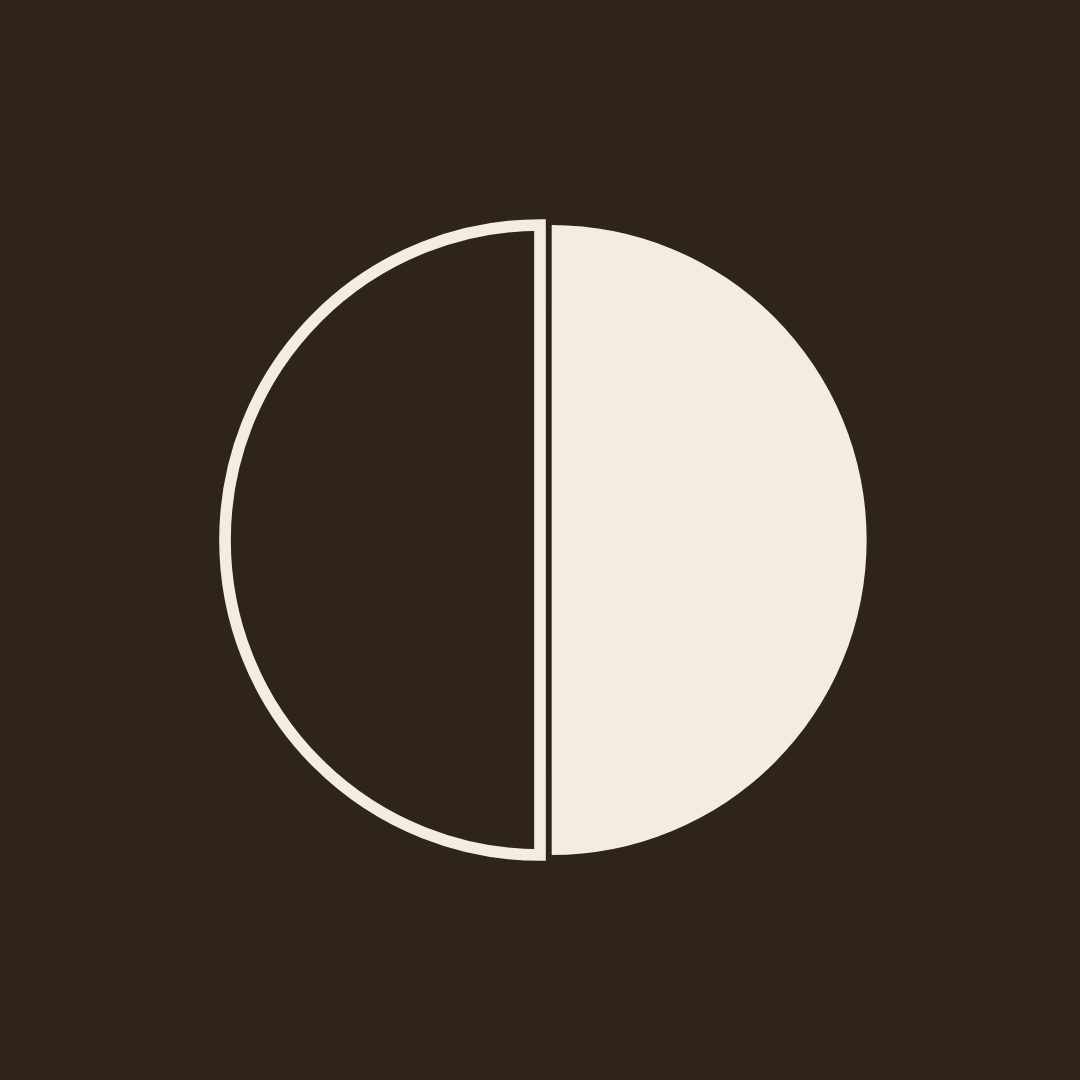
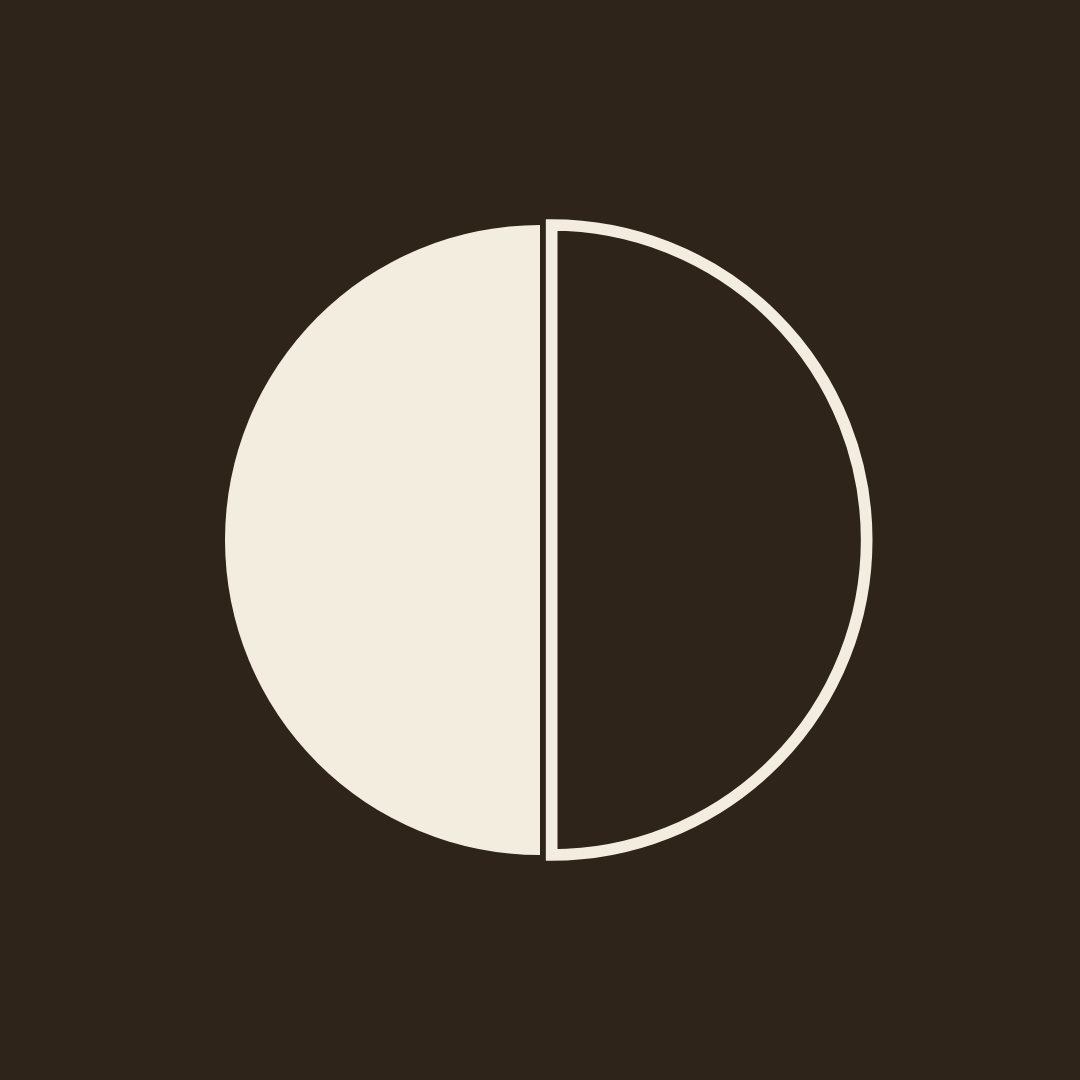
Swap monogram halves: solid first half, open second half; add kickoff-spot variant
The mark now reads as the kickoff circle: left half played and full,
right half blank — yours to write. Split-colour centre spot rejected.
Regenerated avatars and post-01 signature slide.

Changed region(s): [[0.1833, 0.1833, 0.825, 0.7944]]

diff --git a/brand-assets/centre-spot-options.html b/brand-assets/centre-spot-options.html
@@ -1,0 +1,80 @@
+<!DOCTYPE html>
+<html lang="en">
+<head>
+<meta charset="UTF-8">
+<meta name="viewport" content="width=device-width, initial-scale=1.0">
+<title>Second Half — Centre spot: three options</title>
+<link href="https://fonts.googleapis.com/css2?family=Fraunces:opsz,wght@9..144,600&family=Space+Mono&display=swap" rel="stylesheet">
+<style>
+  * { margin: 0; padding: 0; box-sizing: border-box; }
+  body { background: #F3EDDF; color: #2E2419; font-family: 'Space Mono', monospace; padding: 56px 24px 72px; }
+  h1 { font-family: 'Fraunces', Georgia, serif; font-weight: 600; font-size: 28px; text-align: center; margin-bottom: 8px; }
+  .sub { text-align: center; font-size: 12px; text-transform: uppercase; letter-spacing: 0.15em; color: #8C7B63; margin-bottom: 48px; }
+  .row { display: flex; justify-content: center; gap: 40px; flex-wrap: wrap; }
+  .variant { text-align: center; background: #FAF7EF; border: 1px solid #DDD3BF; padding: 32px 36px; max-width: 320px; }
+  .variant h2 { font-size: 13px; text-transform: uppercase; letter-spacing: 0.12em; margin-bottom: 24px; }
+  .big { margin-bottom: 24px; }
+  .smalls { display: flex; gap: 18px; justify-content: center; align-items: flex-end; margin-bottom: 20px; }
+  .smalls figure { display: flex; flex-direction: column; gap: 8px; align-items: center; }
+  figcaption { font-size: 10px; color: #8C7B63; text-transform: uppercase; }
+  .verdict { font-size: 11.5px; line-height: 1.7; color: #8C7B63; text-align: left; border-top: 1px solid #DDD3BF; padding-top: 16px; }
+  .verdict b { color: #2E2419; }
+</style>
+</head>
+<body>
+<h1>The centre spot</h1>
+<div class="sub">The kickoff-circle mark — three treatments, large and small</div>
+<div class="row">
+
+  <div class="variant">
+    <h2>A — Clean (no spot)</h2>
+    <div class="big">
+      <svg viewBox="0 0 120 120" width="200" height="200" xmlns="http://www.w3.org/2000/svg">
+        <path d="M60 6 A54 54 0 0 0 60 114 Z" fill="#35573B"/>
+        <path d="M62 6 A54 54 0 0 1 62 114 Z" fill="none" stroke="#2E2419" stroke-width="2"/>
+      </svg>
+    </div>
+    <div class="smalls">
+      <figure><svg viewBox="0 0 120 120" width="40" height="40"><path d="M60 6 A54 54 0 0 0 60 114 Z" fill="#35573B"/><path d="M62 6 A54 54 0 0 1 62 114 Z" fill="none" stroke="#2E2419" stroke-width="2"/></svg><figcaption>40px</figcaption></figure>
+      <figure><svg viewBox="0 0 120 120" width="16" height="16"><path d="M60 6 A54 54 0 0 0 60 114 Z" fill="#35573B"/><path d="M62 6 A54 54 0 0 1 62 114 Z" fill="none" stroke="#2E2419" stroke-width="4"/></svg><figcaption>16px favicon</figcaption></figure>
+    </div>
+    <p class="verdict"><b>The primary mark.</b> Survives every size. Avatar, favicon, watermark, comment threads.</p>
+  </div>
+
+  <div class="variant">
+    <h2>B — Kickoff spot</h2>
+    <div class="big">
+      <svg viewBox="0 0 120 120" width="200" height="200" xmlns="http://www.w3.org/2000/svg">
+        <path d="M60 6 A54 54 0 0 0 60 114 Z" fill="#35573B"/>
+        <path d="M62 6 A54 54 0 0 1 62 114 Z" fill="none" stroke="#2E2419" stroke-width="2"/>
+        <circle cx="61" cy="60" r="5.5" fill="#2E2419" stroke="#F3EDDF" stroke-width="2.5"/>
+      </svg>
+    </div>
+    <div class="smalls">
+      <figure><svg viewBox="0 0 120 120" width="40" height="40"><path d="M60 6 A54 54 0 0 0 60 114 Z" fill="#35573B"/><path d="M62 6 A54 54 0 0 1 62 114 Z" fill="none" stroke="#2E2419" stroke-width="2"/><circle cx="61" cy="60" r="5.5" fill="#2E2419" stroke="#F3EDDF" stroke-width="2.5"/></svg><figcaption>40px</figcaption></figure>
+      <figure><svg viewBox="0 0 120 120" width="16" height="16"><path d="M60 6 A54 54 0 0 0 60 114 Z" fill="#35573B"/><path d="M62 6 A54 54 0 0 1 62 114 Z" fill="none" stroke="#2E2419" stroke-width="4"/><circle cx="61" cy="60" r="5.5" fill="#2E2419" stroke="#F3EDDF" stroke-width="2.5"/></svg><figcaption>16px favicon</figcaption></figure>
+    </div>
+    <p class="verdict"><b>One colour, one object</b> — an espresso spot with a thin paper halo so it stays crisp over the green half. Reads as the kickoff spot, not a target. For large surfaces: packaging, hang tags, website hero.</p>
+  </div>
+
+  <div class="variant">
+    <h2>C — Split spot</h2>
+    <div class="big">
+      <svg viewBox="0 0 120 120" width="200" height="200" xmlns="http://www.w3.org/2000/svg">
+        <path d="M60 6 A54 54 0 0 0 60 114 Z" fill="#35573B"/>
+        <path d="M62 6 A54 54 0 0 1 62 114 Z" fill="none" stroke="#2E2419" stroke-width="2"/>
+        <path d="M60 54.5 A5.5 5.5 0 0 0 60 65.5 Z" fill="#F3EDDF"/>
+        <path d="M61.5 54.5 A5.5 5.5 0 0 1 61.5 65.5 Z" fill="#2E2419"/>
+      </svg>
+    </div>
+    <div class="smalls">
+      <figure><svg viewBox="0 0 120 120" width="40" height="40"><path d="M60 6 A54 54 0 0 0 60 114 Z" fill="#35573B"/><path d="M62 6 A54 54 0 0 1 62 114 Z" fill="none" stroke="#2E2419" stroke-width="2"/><path d="M60 54.5 A5.5 5.5 0 0 0 60 65.5 Z" fill="#F3EDDF"/><path d="M61.5 54.5 A5.5 5.5 0 0 1 61.5 65.5 Z" fill="#2E2419"/></svg><figcaption>40px</figcaption></figure>
+      <figure><svg viewBox="0 0 120 120" width="16" height="16"><path d="M60 6 A54 54 0 0 0 60 114 Z" fill="#35573B"/><path d="M62 6 A54 54 0 0 1 62 114 Z" fill="none" stroke="#2E2419" stroke-width="4"/><path d="M60 54.5 A5.5 5.5 0 0 0 60 65.5 Z" fill="#F3EDDF"/><path d="M61.5 54.5 A5.5 5.5 0 0 1 61.5 65.5 Z" fill="#2E2419"/></svg><figcaption>16px favicon</figcaption></figure>
+    </div>
+    <p class="verdict"><b>The one you feared — and you were right.</b> The spot changes colour per half, so the eye reads concentric rings: a target, not a pitch. Shown only for comparison.</p>
+  </div>
+
+</div>
+<p class="sub" style="margin-top:48px; margin-bottom:0">Left half solid — the first half, played · Right half open — the second half, yours to write</p>
+</body>
+</html>

diff --git a/mockups/brand-board.html b/mockups/brand-board.html
@@ -572,8 +572,8 @@
 <section class="cover">
   <div class="monogram-wrap">
     <svg viewBox="0 0 120 120" xmlns="http://www.w3.org/2000/svg" role="img" aria-label="Second Half halftime clock monogram">
-      <path d="M60 6 A54 54 0 0 0 60 114 Z" fill="none" stroke="#2E2419" stroke-width="2"/>
-      <path d="M62 6 A54 54 0 0 1 62 114 Z" fill="#35573B"/>
+      <path d="M60 6 A54 54 0 0 0 60 114 Z" fill="#35573B"/>
+      <path d="M62 6 A54 54 0 0 1 62 114 Z" fill="none" stroke="#2E2419" stroke-width="2"/>
     </svg>
   </div>
   <div class="cover-wordmark display">Second <span>Half</span></div>
@@ -615,8 +615,8 @@
     <div class="logo-tile on-night">
       <div class="tile-content">
         <svg viewBox="0 0 120 120" width="56" height="56" xmlns="http://www.w3.org/2000/svg" role="img" aria-label="Halftime clock monogram">
-          <path d="M60 6 A54 54 0 0 0 60 114 Z" fill="none" stroke="#2E2419" stroke-width="2"/>
-          <path d="M62 6 A54 54 0 0 1 62 114 Z" fill="#35573B"/>
+          <path d="M60 6 A54 54 0 0 0 60 114 Z" fill="#35573B"/>
+          <path d="M62 6 A54 54 0 0 1 62 114 Z" fill="none" stroke="#2E2419" stroke-width="2"/>
         </svg>
         <div class="lockup-wordmark display">Second <span>Half</span></div>
       </div>
@@ -633,8 +633,8 @@
     <div class="logo-tile on-night">
       <div class="tile-content">
         <svg viewBox="0 0 120 120" width="72" height="72" xmlns="http://www.w3.org/2000/svg" role="img" aria-label="Halftime clock monogram">
-          <path d="M60 6 A54 54 0 0 0 60 114 Z" fill="none" stroke="#2E2419" stroke-width="2"/>
-          <path d="M62 6 A54 54 0 0 1 62 114 Z" fill="#35573B"/>
+          <path d="M60 6 A54 54 0 0 0 60 114 Z" fill="#35573B"/>
+          <path d="M62 6 A54 54 0 0 1 62 114 Z" fill="none" stroke="#2E2419" stroke-width="2"/>
         </svg>
       </div>
       <span class="tile-caption mono">The halftime mark &mdash; avatar &amp; favicon</span>
@@ -643,8 +643,8 @@
     <div class="logo-tile on-amber">
       <div class="tile-content">
         <svg viewBox="0 0 120 120" width="56" height="56" xmlns="http://www.w3.org/2000/svg" role="img" aria-label="Halftime clock monogram, inverted">
-          <path d="M60 6 A54 54 0 0 0 60 114 Z" fill="none" stroke="#F3EDDF" stroke-width="2"/>
-          <path d="M62 6 A54 54 0 0 1 62 114 Z" fill="#F3EDDF"/>
+          <path d="M60 6 A54 54 0 0 0 60 114 Z" fill="#F3EDDF"/>
+          <path d="M62 6 A54 54 0 0 1 62 114 Z" fill="none" stroke="#F3EDDF" stroke-width="2"/>
         </svg>
         <div class="lockup-wordmark display on-night-text">Second Half</div>
       </div>

diff --git a/brand-assets/post-01/slide-4.html b/brand-assets/post-01/slide-4.html
@@ -1,6 +1,6 @@
 <!DOCTYPE html><html><head><meta charset="utf-8"><link href="https://fonts.googleapis.com/css2?family=Fraunces:ital,opsz,wght@0,9..144,600;0,9..144,900;1,9..144,600&family=Space+Mono:wght@400;700&display=swap" rel="stylesheet"><style>html,body{margin:0;padding:0}body{width:1080px;height:1350px;display:flex;flex-direction:column;align-items:center;justify-content:center;text-align:center;position:relative}.eyebrow{font-family:"Space Mono",monospace;font-size:30px;letter-spacing:.3em;position:absolute;top:100px;left:0;right:0}.line{font-family:Fraunces,Georgia,serif;font-weight:600;font-size:110px;line-height:1.12;max-width:820px}.mono-foot{font-family:"Space Mono",monospace;font-size:26px;letter-spacing:.22em;position:absolute;bottom:100px;left:0;right:0}</style></head><body>
 <style>body{background:#F3EDDF;color:#2E2419;gap:56px}.wordmark{font-family:Fraunces,Georgia,serif;font-weight:900;font-size:104px}.wordmark span{color:#35573B}</style>
-<svg viewBox="0 0 120 120" width="220" height="220" xmlns="http://www.w3.org/2000/svg"><path d="M60 6 A54 54 0 0 0 60 114 Z" fill="none" stroke="#2E2419" stroke-width="2"/><path d="M62 6 A54 54 0 0 1 62 114 Z" fill="#35573B"/></svg>
+<svg viewBox="0 0 120 120" width="220" height="220" xmlns="http://www.w3.org/2000/svg"><path d="M60 6 A54 54 0 0 0 60 114 Z" fill="#35573B"/><path d="M62 6 A54 54 0 0 1 62 114 Z" fill="none" stroke="#2E2419" stroke-width="2"/></svg>
 <div class="wordmark">Second <span>Half</span></div>
 <div class="mono-foot" style="position:static;color:#8C7B63">REAL VINTAGE FOOTBALL SHIRTS &middot; FOUND ONE BY ONE</div>
 </body></html>

diff --git a/mockups/instagram-kit.html b/mockups/instagram-kit.html
@@ -498,12 +498,12 @@
 <!-- hidden symbol defs: monogram, reused throughout -->
 <svg width="0" height="0" style="position:absolute" aria-hidden="true">
   <symbol id="mono-standard" viewBox="0 0 120 120">
-    <path d="M60 6 A54 54 0 0 0 60 114 Z" fill="none" stroke="#2E2419" stroke-width="2"/>
-    <path d="M62 6 A54 54 0 0 1 62 114 Z" fill="#35573B"/>
+    <path d="M60 6 A54 54 0 0 0 60 114 Z" fill="#35573B"/>
+    <path d="M62 6 A54 54 0 0 1 62 114 Z" fill="none" stroke="#2E2419" stroke-width="2"/>
   </symbol>
   <symbol id="mono-paper" viewBox="0 0 120 120">
-    <path d="M60 6 A54 54 0 0 0 60 114 Z" fill="none" stroke="#F3EDDF" stroke-width="2"/>
-    <path d="M62 6 A54 54 0 0 1 62 114 Z" fill="#F3EDDF"/>
+    <path d="M60 6 A54 54 0 0 0 60 114 Z" fill="#F3EDDF"/>
+    <path d="M62 6 A54 54 0 0 1 62 114 Z" fill="none" stroke="#F3EDDF" stroke-width="2"/>
   </symbol>
 </svg>
 

diff --git a/brand-assets/avatar-espresso.html b/brand-assets/avatar-espresso.html
@@ -1,5 +1,5 @@
 <!DOCTYPE html><html><head><meta charset="utf-8"><style>html,body{margin:0;padding:0}body{width:1080px;height:1080px;background:#2E2419;display:flex;align-items:center;justify-content:center}</style></head>
 <body><svg viewBox="0 0 120 120" width="700" height="700" xmlns="http://www.w3.org/2000/svg">
-<path d="M60 6 A54 54 0 0 0 60 114 Z" fill="none" stroke="#F3EDDF" stroke-width="2"/>
-<path d="M62 6 A54 54 0 0 1 62 114 Z" fill="#F3EDDF"/>
+<path d="M60 6 A54 54 0 0 0 60 114 Z" fill="#F3EDDF"/>
+<path d="M62 6 A54 54 0 0 1 62 114 Z" fill="none" stroke="#F3EDDF" stroke-width="2"/>
 </svg></body></html>

diff --git a/brand-assets/avatar-paper.html b/brand-assets/avatar-paper.html
@@ -1,5 +1,5 @@
 <!DOCTYPE html><html><head><meta charset="utf-8"><style>html,body{margin:0;padding:0}body{width:1080px;height:1080px;background:#F3EDDF;display:flex;align-items:center;justify-content:center}</style></head>
 <body><svg viewBox="0 0 120 120" width="700" height="700" xmlns="http://www.w3.org/2000/svg">
-<path d="M60 6 A54 54 0 0 0 60 114 Z" fill="none" stroke="#2E2419" stroke-width="2"/>
-<path d="M62 6 A54 54 0 0 1 62 114 Z" fill="#35573B"/>
+<path d="M60 6 A54 54 0 0 0 60 114 Z" fill="#35573B"/>
+<path d="M62 6 A54 54 0 0 1 62 114 Z" fill="none" stroke="#2E2419" stroke-width="2"/>
 </svg></body></html>

diff --git a/brand-assets/avatar-pitch.html b/brand-assets/avatar-pitch.html
@@ -1,5 +1,5 @@
 <!DOCTYPE html><html><head><meta charset="utf-8"><style>html,body{margin:0;padding:0}body{width:1080px;height:1080px;background:#35573B;display:flex;align-items:center;justify-content:center}</style></head>
 <body><svg viewBox="0 0 120 120" width="700" height="700" xmlns="http://www.w3.org/2000/svg">
-<path d="M60 6 A54 54 0 0 0 60 114 Z" fill="none" stroke="#F3EDDF" stroke-width="2"/>
-<path d="M62 6 A54 54 0 0 1 62 114 Z" fill="#F3EDDF"/>
+<path d="M60 6 A54 54 0 0 0 60 114 Z" fill="#F3EDDF"/>
+<path d="M62 6 A54 54 0 0 1 62 114 Z" fill="none" stroke="#F3EDDF" stroke-width="2"/>
 </svg></body></html>
